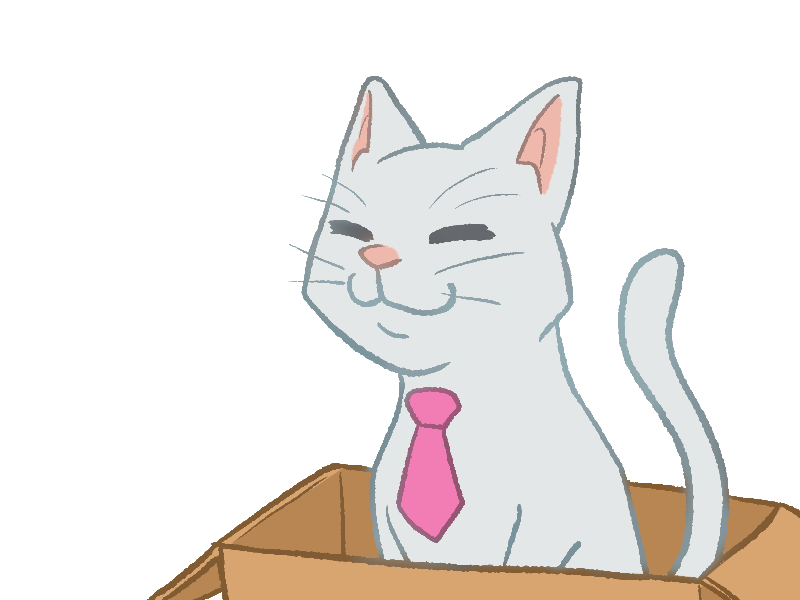
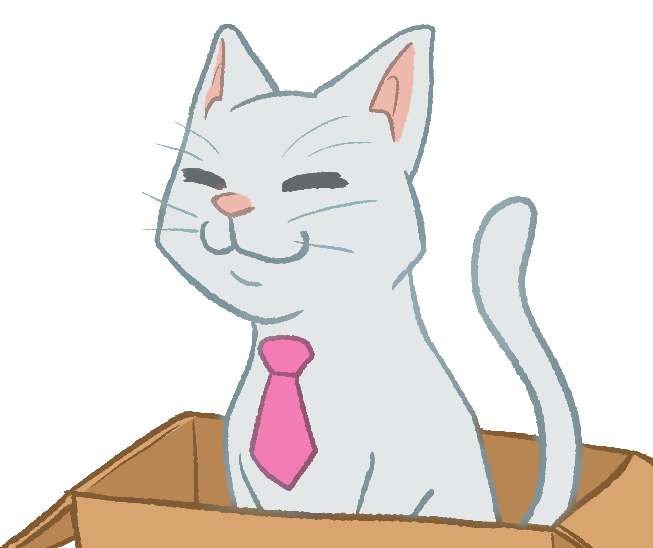
Primera escena
He creado la primera escena y la logica para cambiar los sprites según quien hable

diff --git a/src/Scenes/DialogScene.js b/src/Scenes/DialogScene.js
@@ -1,5 +1,7 @@
 /*Escena de Phaser*/
-import Decoder from "../Decode.js";
+import Decoder from '../Decode.js';
+import Melchor from '../sprites/melchor.js'
+import Cat from '../sprites/gato.js'
 export default class MenuScene extends Phaser.Scene {
     constructor(){
         super({key: 'Dialog'});
@@ -9,34 +11,50 @@ export default class MenuScene extends Phaser.Scene {
     }
 
     preload(){
-        this.load.json('data1','./data/Prueba1.json');
+        this.load.json('data1','./data/Intro.json');
         this.load.json('data2','./data/Prueba2.json');
+        this.load.json('data2','./data/Prueba2.json');
+
+        this.load.image('background1','./assets/fondos/cajaPuerta.jpg');
 
         this.load.json('deck1','./data/Cartas.json')
         
         this.load.image('gato', './assets/Gato.png');
-        this.load.image('background','./assets/KualaLumpur.jpg');
+        this.load.spritesheet('melchor', './assets/Melchor.png',{frameWidth: 500, frameHeight: 600})
+        
     }
 
     create(){
         switch (this.IDscene){
         case (1):
             this.data = this.cache.json.get('data1');
+            this.add.image(0, 0, 'background1').setOrigin(0,0).setScale(1.9,1.9);
             break;
         case(2):
             this.data = this.cache.json.get('data2');
             break;
         }
-        this.add.image(400, 300, 'background');
-        this.add.image(400, 300, 'gato');
-
-        this.events.on('next',() => {this.decoder.decode()});
-        
-        console.log(this.data);
+        this.Melch = new Melchor(this, 0, this.sys.game.canvas.height).setOrigin(0,1);
+        this.Gato = new Cat(this, this.sys.game.canvas.width, this.sys.game.canvas.height).setOrigin(1,1);
 
         this.decoder = new Decoder(this, this.data);
-
+        this.events.on('next',() => {this.decoder.decode()});
+        
         // Empieza el decode del JSON por el RootNode
         this.decoder.decode();
+    }
+    showSprite(sprite){
+        if(sprite == 'gato') {
+            this.Melch.visible = false;
+            this.Gato.visible = true;
+        }
+        else if(sprite == 'melchor'){
+            this.Melch.visible = true;
+            this.Gato.visible = false;
+        }
+        else{
+            this.Melch.visible = false;
+            this.Gato.visible = false;
+        }
     }
 }

diff --git a/src/Decode.js b/src/Decode.js
@@ -4,7 +4,6 @@ export default class Decoder{
         this.scene = scene;
         this.data = data;
         this.node  = this._findId(this.data.RootNodeID);
-        this.karma = this.data.Variables[0].Value;
     }
 
     _findId(idToLookFor) {
@@ -20,18 +19,32 @@ export default class Decoder{
         this.node = this._findId(this.node.NextID);
         switch(this.node.$type){
             case 'NodeSentence':
+                let color;
+                if(this.node.SpeakerID == 0){
+                    this.scene.showSprite('gato');
+                    color = 0x1d7ba1;
+                }
+                else if(this.node.SpeakerID == 1){
+                    this.scene.showSprite('melchor');
+                    color = 0xba6e16;
+                }
+                else{
+                    this.scene.showSprite('');
+                    color = 0x808080;
+                }
                 this.dialog = new DialogText(this.scene, {
                     borderThickness: 4,
-                    borderColor: 0x66d4ed,
+                    borderColor: color,
                     borderAlpha: 1,
                     windowAlpha: 0.6,
-                    windowColor: 0x66d4ed,
-                    windowHeight: 150,
-                    padding: 32,
+                    windowColor: color,
+                    windowHeight: 100,
+                    padding: 16,
                     closeBtnColor: 'white',
                     dialogSpeed: 3,
                     fontSize: 24,
-                    fontFamily: "pixel"
+                    fontFamily: "pixel",
+                    fontColor: 'white'
                 });
                 this.dialog.setText(this.node.Sentence, true);
                 break;

diff --git a/src/dialog_plugin.js b/src/dialog_plugin.js
@@ -30,6 +30,7 @@ export default class DialogText{
 		this.dialogSpeed = opts.dialogSpeed || 3;
 		this.fontSize = opts.fontSize || 24
 		this.fontFamily = opts.fontFamily || undefined
+		this.fontColor = opts.fontColor || 'white'
 		
 		// se usa para animar el texto
 		this.eventCounter = 0;
@@ -232,7 +233,8 @@ export default class DialogText{
 				//se obliga al texto a permanecer dentro de unos limites determinados
 				wordWrap: { width: this._getGameWidth() - (this.padding * 2) - 25 },
 				fontSize: this.fontSize,
-				fontFamily: this.fontFamily
+				fontFamily: this.fontFamily,
+				color: this.fontColor
 			}
 		});
 	}

diff --git a/src/sprites/melchor.js b/src/sprites/melchor.js
@@ -1,0 +1,8 @@
+export default class Melchor extends Phaser.GameObjects.Sprite{
+    constructor(scene, x, y){
+        super(scene, x, y, 'melchor', 2)
+        this.scaleX = 0.7;
+        this.scaleY = 0.7;
+        this.scene.add.existing(this);
+    }
+}

diff --git a/src/sprites/gato.js b/src/sprites/gato.js
@@ -1,0 +1,8 @@
+export default class Cat extends Phaser.GameObjects.Sprite{
+    constructor(scene, x, y){
+        super(scene, x, y, 'gato')
+        this.scaleX = 0.7;
+        this.scaleY = 0.7;
+        this.scene.add.existing(this);
+    }
+}
